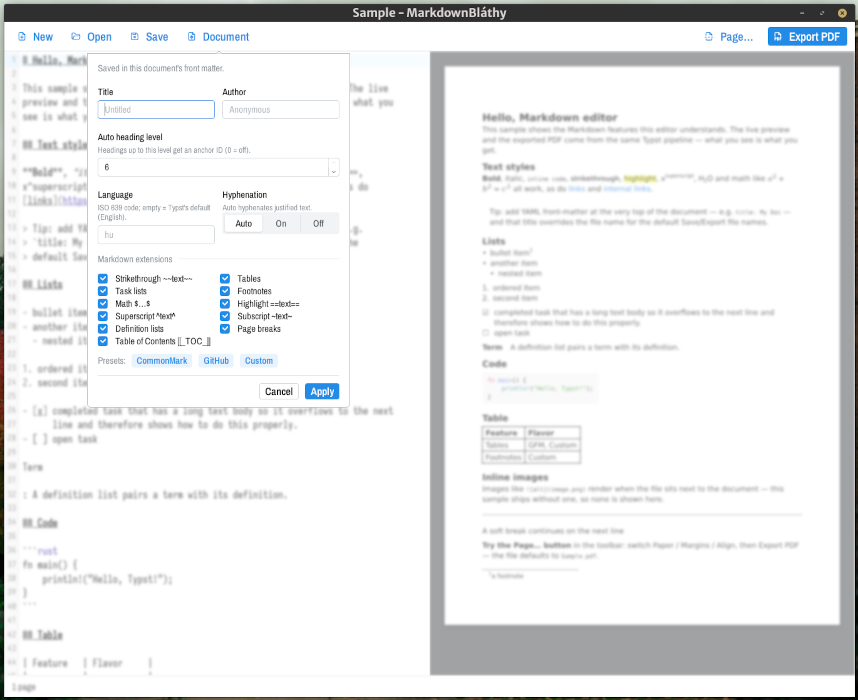
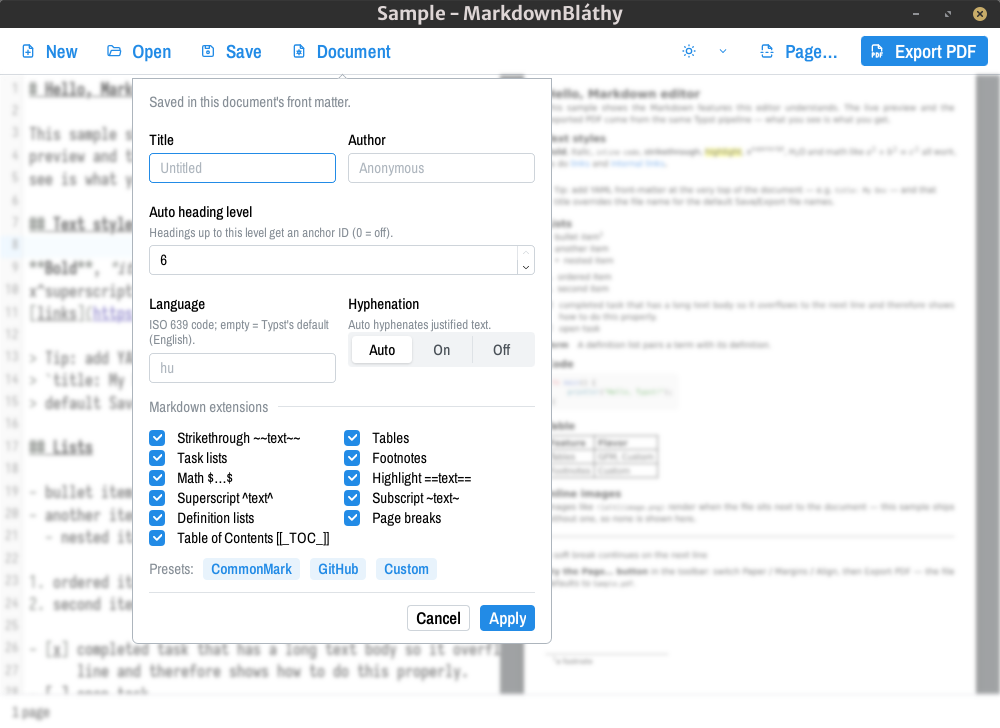
chore(release): v1.0.0
First stable release.

- bump the version to 1.0.0 in the workspace manifest, package.json,
  package-lock.json, tauri.conf.json and the AppStream metainfo; refresh
  Cargo.lock
- add the 1.0.0 changelog section (git-cliff) and metainfo <release> entry
- refresh the screenshots from the release binary, add a dark-theme shot as
  the second screenshot
- point the metainfo screenshot URLs at the renamed repository and v1.0.0

diff --git a/CHANGELOG.md b/CHANGELOG.md
@@ -1,4 +1,47 @@
 Changelog
+## [1.0.0] - 2026-11-01
+
+### 🚀 Features
+
+- *(engine)* Resolve images relative to document and template folders
+- *(templates)* Bundled templates, selector data, and document-relative images
+- *(ui)* Template selector lists bundled themes and sends document path
+- *(templates)* Enlarge and fade the obsidian corner graph
+- *(ui)* Light/system/dark UI theme with a toolbar selector
+- *(ui)* Icon-only theme control with labelled menu entries
+- *(cli)* Add command-line interface
+- *(ui)* Add command registry and app-wide shortcuts
+- *(gui)* Open the document passed on startup
+
+### 🐛 Bug Fixes
+
+- *(appimage)* Bundle templates in the AppDir and mark M8 complete
+- *(templates)* Deduplicate the TOC comment in prelude.typ
+- *(appimage)* Rebuild when frontend/templates/config change
+- *(appimage)* Place bundled templates in the product-name resource dir
+- *(packaging)* Align the binary name with the resource dir name
+- *(ui)* Make the theme control match the toolbar buttons
+- *(template)* Drop an unused binding and pin the Rust toolchain
+- *(deps)* Upgrade vite and vitest past the published advisories
+- *(ci)* Keep macOS signing optional
+- Backticks can be typed on macos with HU keyboard
+
+### 📚 Documentation
+
+- *(templates)* Document the prelude-template contract in templates/README.md
+- Document CLI, packaging, GUI launcher and shortcuts
+
+### 🚜 Refactor
+
+- Split default.typ into shared prelude and light template
+- Split Tauri dialog and path adapters
+
+### ⚙ Miscellaneous Tasks
+
+- Per-platform build workflows, reusable from the release
+- Extracted Tauri-free core crate
+- *(packaging)* Ship CLI in deb and rpm bundles
+
 ## [0.1.0] - 2026-10-23
 
 ### 🚀 Features
